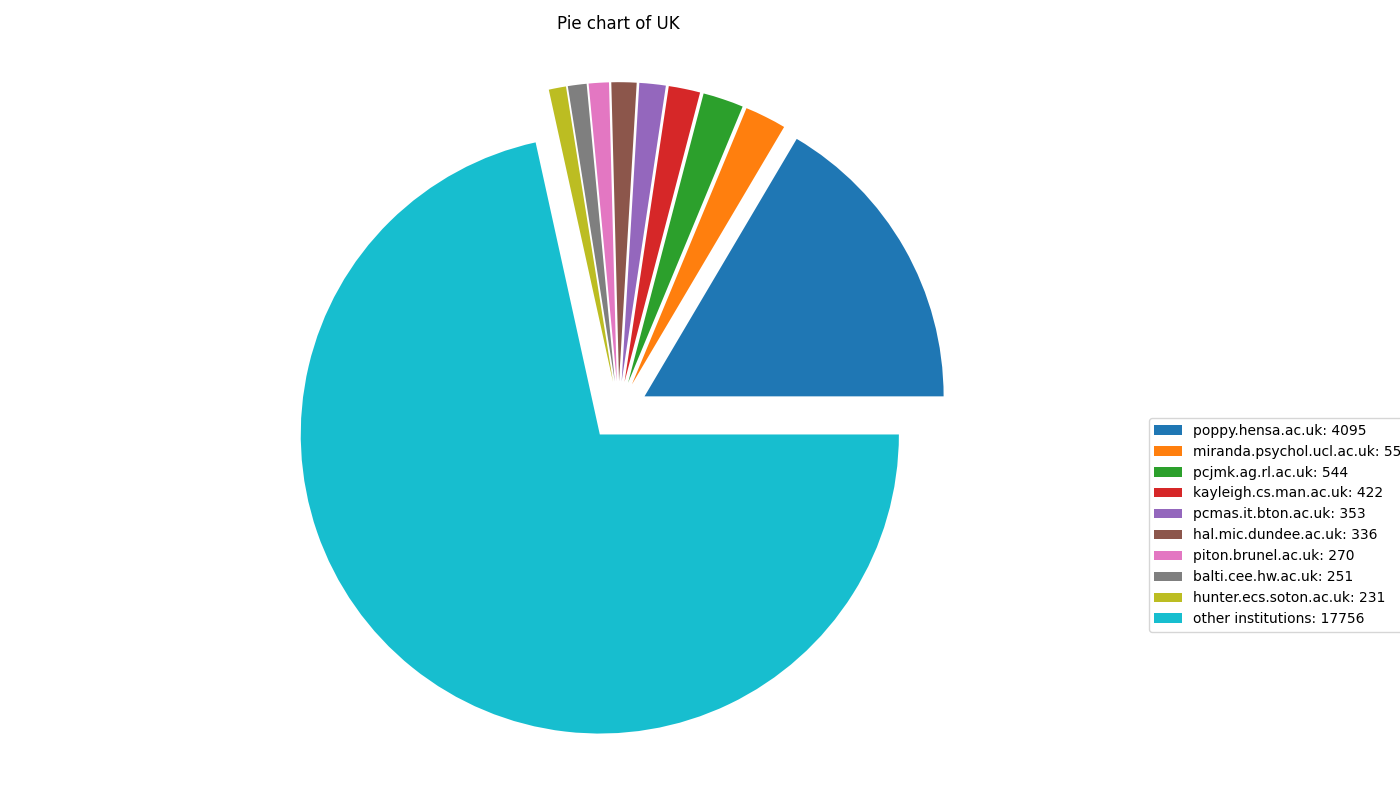
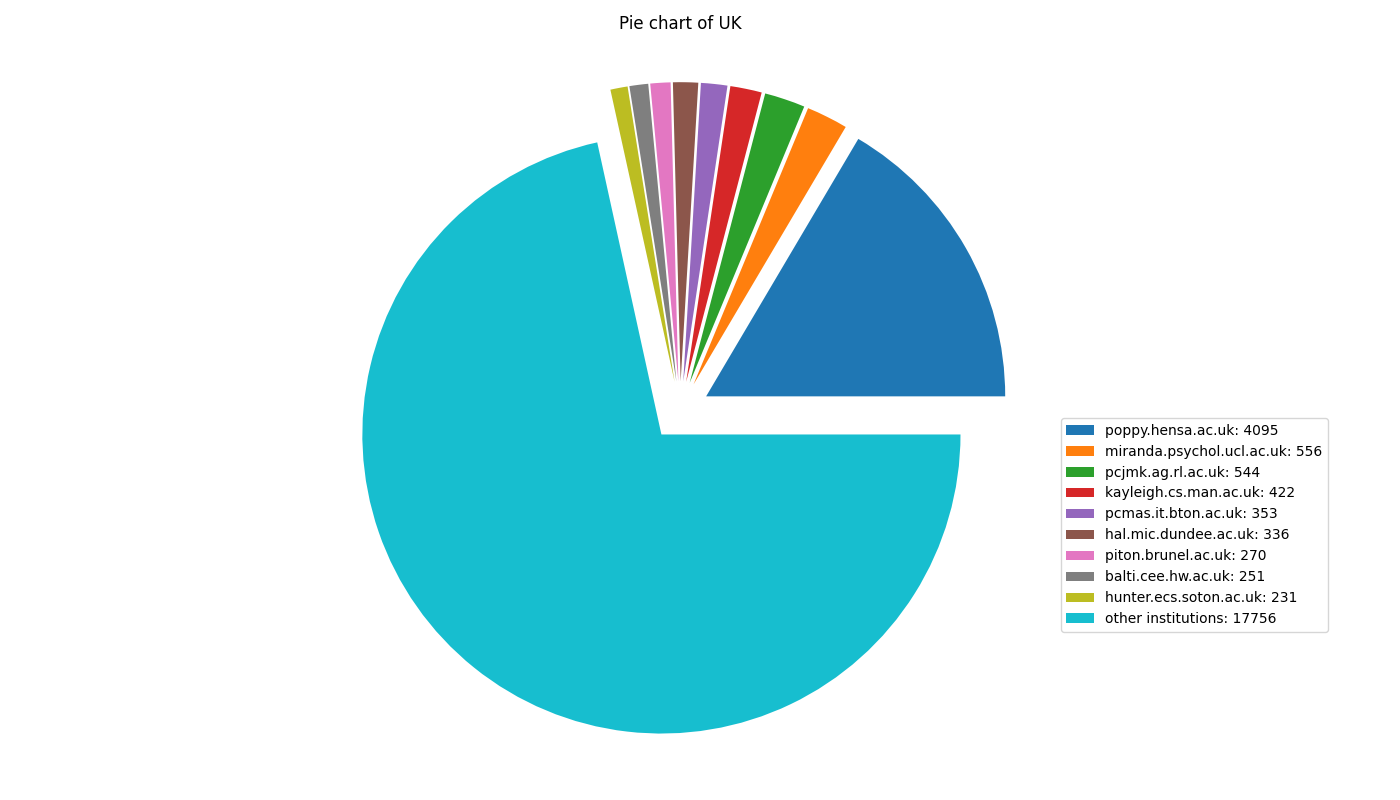
legend

Changed region(s): [[0.215, 0.0938, 0.7371, 0.9375], [0.7371, 0.5312, 0.9829, 0.7812], [0.3993, 0.0, 0.5221, 0.0625]]

diff --git a/acp23ws-COM6012/Q1_B.py b/acp23ws-COM6012/Q1_B.py
@@ -89,7 +89,7 @@ for country in ['UK', 'US', 'Australia']:
     plt.pie(pd_df['count'], explode=[0.1]*len(pd_df))
     plt.title(f"Pie chart of {country}")
     legend_txt = [f'{host}: {count}' for host, count in zip(pd_df['host'], pd_df['count'])]
-    plt.legend(legend_txt, loc='upper left', bbox_to_anchor=(1.2, 0.5))
+    plt.legend(legend_txt, loc='upper left', bbox_to_anchor=(1, 0.5))
     plt.tight_layout()
     plt.savefig(f"{country}.png")
 
